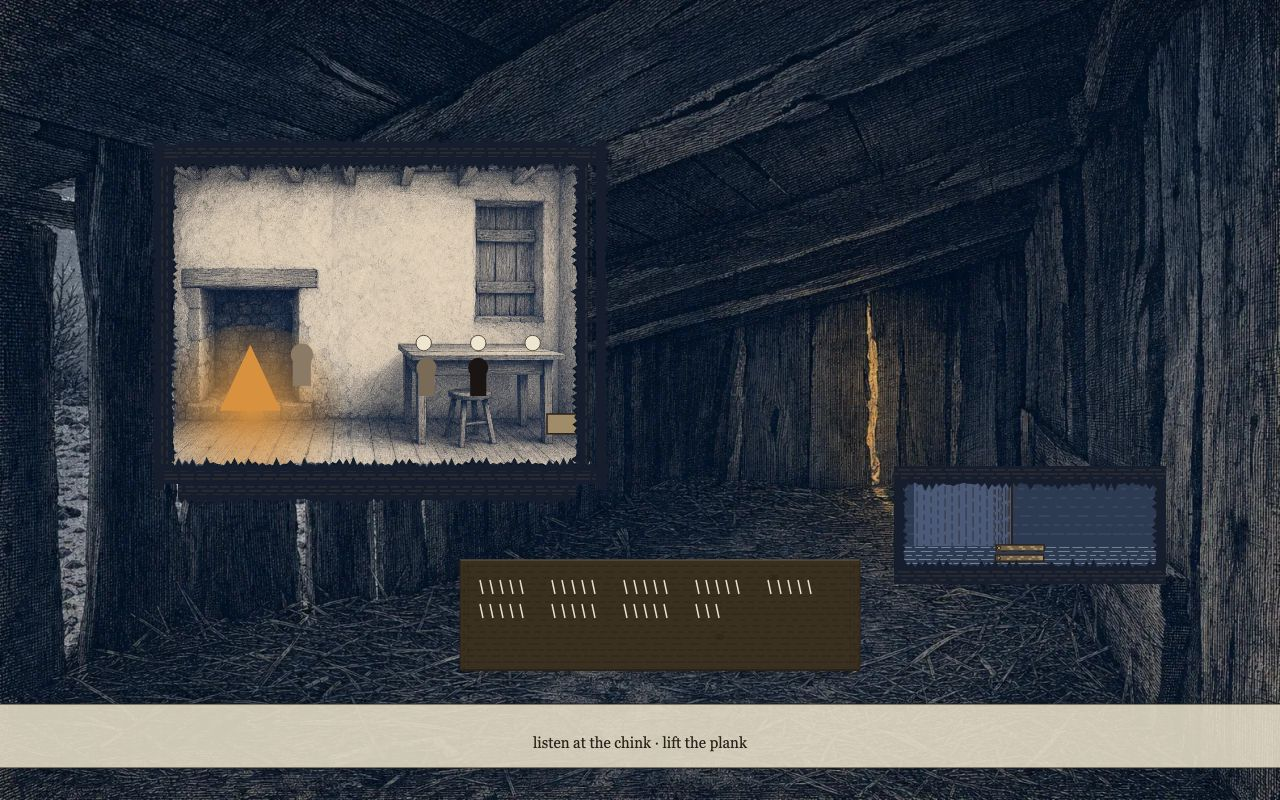
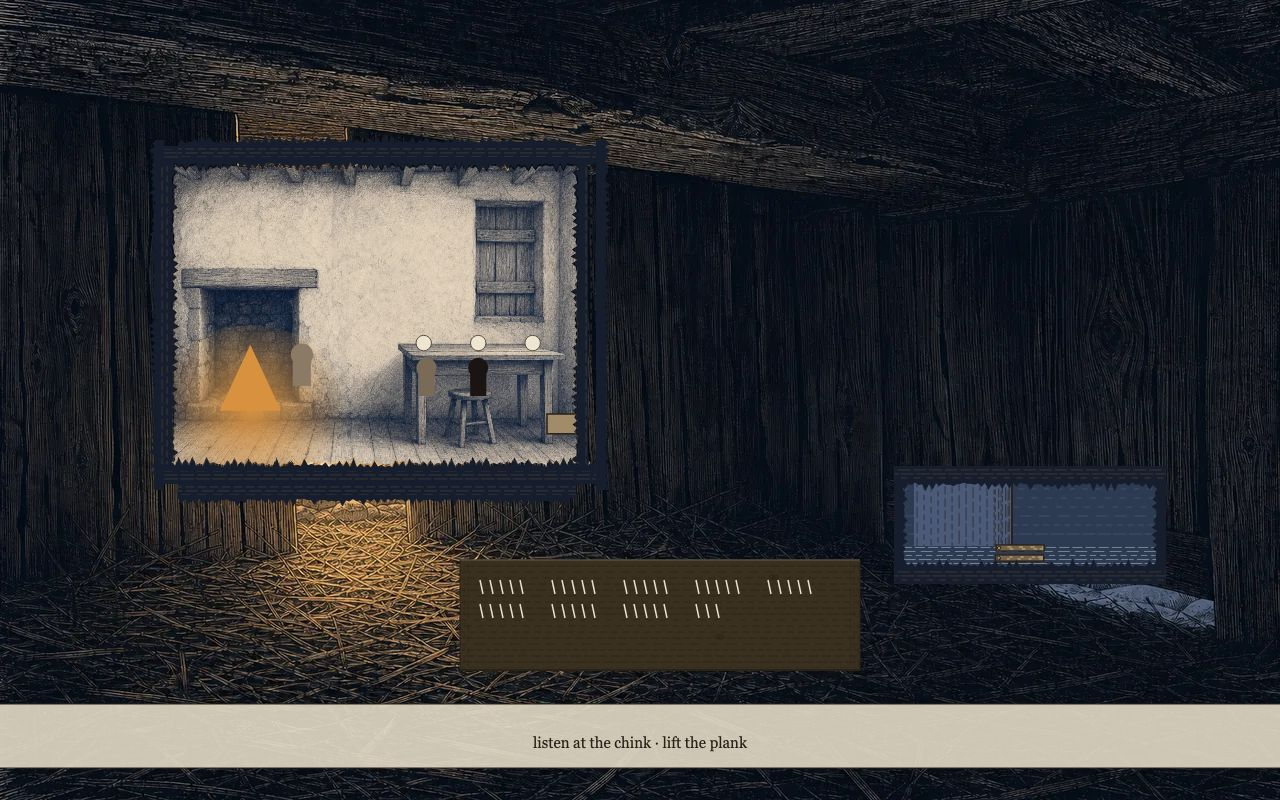
frankenstein: regenerate plate/hovel to §7.1, and fix the probes it invalidated
F12 — the shipped plate's one warm opening sat at x 868-886, centred 877: right
of centre, 1.4% of frame width. §7.1 calls the hovel interior the signature
frame and puts a ragged aperture left of centre at ~34% x 40%, warm, room
inside. The game drew its aperture per §7.1 at 160-590, so the frame carried two
warm chinks — the room's, and an unexplained crack on the right.

Regenerated via codex imagegen. Two variants; the reject fragmented the wall
into six or seven separate slivers where §7.1 asks for one aperture, and gave
the cold slot as a clean white rectangle. The shipped plate measures warm mass
x 230-580, centred 405, with 0.0% of warm pixels right of centre, and that mass
sits inside the Canvas aperture, so the room covers it and one chink remains in
frame. Its opening is edged the way §7.1 describes: long straight board edges
with splintered breaks across the grain.

That last part matters beyond this item — F13 said the Canvas sawtooth reads as
a pinked mount rather than prised boards, and deferred the reshape for want of a
target. The plate now supplies one.

The plate lights the straw, and that invalidated two pixel probes written
against a dark-straw plate, both keyed on "warm means content":

  - the aperture's bottom lane scanned up from the straw and took the first warm
    pixel as room content escaping the clip. With lit straw it latched onto the
    plate's own glow at y 500 in every column and reported a leak that does not
[…]

diff --git a/examples/frankenstein/qa/qa_browser.py b/examples/frankenstein/qa/qa_browser.py
@@ -589,11 +589,19 @@ APERTURE_PROBE_JS = """(() => {
   };
   const scan = (hits) => ({ n: hits.length, var: variance(hits),
                             min: Math.min(...hits), max: Math.max(...hits) });
-  // bottom edge: columns right of the hearth glow, scanning up from the straw
+  // Bottom edge: columns right of the hearth glow. Scan DOWN from inside the
+  // room and take the first pixel that stops reading as room — that is the
+  // board tooth, i.e. the mask's boundary. The earlier version scanned up from
+  // the straw and took the first warm pixel, which assumed the plate below the
+  // aperture was dark. Since plate/hovel was regenerated to §7.1 the hearth
+  // light legitimately spills onto that straw, so the upward scan latched onto
+  // the plate's own glow at y = 500 in every column and read it as the room
+  // leaking past the teeth. Measuring the boundary from inside is independent
+  // of whatever the plate does underneath it.
   const bot = [];
   for (let x = 360; x <= AX + AW - 24; x += 3)
-    for (let y = AY + AH + 20; y > AY + AH - 70; y--)
-      if (warm(px(x, y))) { bot.push(y); break; }
+    for (let y = AY + AH - 70; y <= AY + AH + 20; y++)
+      if (!warm(px(x, y))) { bot.push(y); break; }
   // left edge: rows above the hearth's dark mouth, scanning in from the boards
   const lef = [];
   for (let y = 204; y <= 258; y += 3)
@@ -604,19 +612,24 @@ APERTURE_PROBE_JS = """(() => {
   for (let y = 210; y <= 333; y += 3)
     for (let x = AX + AW + 20; x > AX + AW - 70; x--)
       if (warm(px(x, y))) { rig.push(x); break; }
-  // control: the tally plank's own top and left edges (460,560)-(860,670)
-  const pk = ctx.getImageData(440, 540, 440, 140).data;
-  const pkx = (x, y) => {
-    const i = ((y - 540) * 440 + (x - 440)) * 4;
-    return [pk[i], pk[i + 1], pk[i + 2]];
+  // Control: the prompt band's top edge at 0.88h = 704. It is opaque PAL.paper
+  // laid straight across the frame, so a working probe must score ~0 variance
+  // on it — that is what proves the variance figures above mean "torn" rather
+  // than "noisy probe". The control used to be the tally plank's edges, keyed
+  // on warm(), but the plank is #3a3020 and passes warm() itself; once
+  // plate/hovel was regenerated the straw around it is lit and warm too, so
+  // the scan measured straw texture instead of the plank. The band is keyed on
+  // luminance instead and does not depend on the plate at all.
+  const bd = ctx.getImageData(300, 680, 700, 60).data;
+  const bdl = (x, y) => {
+    const i = ((y - 680) * 700 + (x - 300)) * 4;
+    return 0.299 * bd[i] + 0.587 * bd[i + 1] + 0.114 * bd[i + 2];
   };
-  const pt = [], pl = [];
-  for (let x = 470; x < 850; x += 3)
-    for (let y = 545; y < 600; y++) if (warm(pkx(x, y))) { pt.push(y); break; }
-  for (let y = 570; y < 660; y += 3)
-    for (let x = 445; x < 510; x++) if (warm(pkx(x, y))) { pl.push(x); break; }
+  const bt = [];
+  for (let x = 300; x < 1000; x += 3)
+    for (let y = 682; y < 738; y++) if (bdl(x, y) > 180) { bt.push(y); break; }
   return { bottom: scan(bot), left: scan(lef), right: scan(rig),
-           plankTop: scan(pt), plankLeft: scan(pl) };
+           bandTop: scan(bt) };
 })()"""
 
 
@@ -640,11 +653,10 @@ def aperture_checks(page, out: dict) -> None:
          f"[campaign] aperture right edge is a torn line, not a rule "
          f"(boundary variance {r['var']} px^2 >= {APERTURE_FLOOR_SIDE}, "
          f"shallowest warm {r['max']} <= 578 over {r['n']} rows; a rectangle scores 0)")
-    pt, pl = ap["plankTop"], ap["plankLeft"]
-    need(pt["n"] >= 120 and pt["var"] <= APERTURE_CONTROL_CEIL
-         and pl["n"] >= 25 and pl["var"] <= APERTURE_CONTROL_CEIL,
-         f"[campaign] the tally plank's own edges still read straight "
-         f"(control: {pt['var']} / {pl['var']} px^2 <= {APERTURE_CONTROL_CEIL})")
+    bt = ap["bandTop"]
+    need(bt["n"] >= 200 and bt["var"] <= APERTURE_CONTROL_CEIL,
+         f"[campaign] the prompt band's straight edge still reads straight "
+         f"(control: {bt['var']} px^2 <= {APERTURE_CONTROL_CEIL} over {bt['n']} columns)")
     out["aperture_shot"] = shot(page, "campaign_hovel_aperture",
                                 clip={"x": 120, "y": 108, "width": 530, "height": 424})
 

diff --git a/examples/frankenstein/qa/QA_REPORT.md b/examples/frankenstein/qa/QA_REPORT.md
@@ -12,8 +12,8 @@
   failure card. Still open: two release gates (Caslon fonts, audio set), and `want` and `silence`
   remain unplayed (see *Findings*, *Release gate*, *Not verified*).
 - `blocker`: 0 (1 found in round 1, **fixed**, with a regression check)
-- `major`: 4 — 1 partly cleared (images done; fonts and audio outstanding), 2 **fixed**
-  (F6 mouse input, F7 the `seen` ending), 1 open (F12, the hovel plate's composition)
+- `major`: 4 — 1 partly cleared (images done; fonts and audio outstanding), 3 **fixed**
+  (F6 mouse input, F7 the `seen` ending, F12 the hovel plate's composition)
 - `minor`: 6 fixed, 4 open
 - Deliverable name: **completable vertical slice, both input schemes, plates in, two gates open**
 
@@ -70,8 +70,8 @@ outstanding item. The door scene runs on a real-time clock
 | F5 | `minor` | `product` | `qa/` did not exist: no harness, no evidence, no report. `GAME_DESIGN` §14 named the acceptance path but nothing executed it | **Fixed** — `qa/qa_browser.py` added, following the repo convention (evidence in-workspace at `qa/evidence/browser/`, JPEG, never `/tmp`) |
 | F6 | `major` | `build` | **Every mouse click was dead.** `src/main.js:66` declares `edges` with `action / drop / exit / journal / advance` and no `clicked`; line 104 does `const e = { ...edges }`, so `e.clicked` is permanently `undefined`, and line 106 clears `mouse.clicked` having never read it. Nine call sites depend on `input.clicked` — title buttons, click-to-move, exit-by-click, the knock, the door. All are unreachable. `mouse.down` is read as a *level* (lines 219 / 279 / 297), so held-mouse still drives the cold open and the context action, which is why round 1's "mouse-primary" pass went green: it exercised holds and silently fell through to Enter for everything else | **Fixed.** Three dead pieces, not one: (a) `consumeEdges` now reads `mouse.clicked` *before* clearing it, so one `mousedown` yields exactly one edge consumed by exactly one tick; (b) `scene.queuedAction` was declared, reset and read but **never assigned a value**, so `maybeQueuedAction` was a permanent no-op — a restored `clicked` alone would have walked the creature to a hotspot and left it standing there; (c) `yardClick` was defined at `main.js:167` and **never called**, its body carrying the no-op expression `engine.applyClick ? null : null;`. All three are wired, and the hotspot radii mirror `nearestActionable`'s per-object reaches exactly (DOOR 34, OUTHOUSE 40, WELL 30, DOOR_APRON 30, MILK_HOUSE 30, WOOD_EDGE 44, HOVEL_MOUTH 24). Verified by a **complete mouse-only campaign** to the `door` ending. The harness's silent `keyboard.press("Enter")` fallback — what let this hide in round 1 — is deleted |
 | F7 | `major` | `build` | **The `seen` ending crashes the renderer.** `src/main.js:497` calls `R.wedge(...)`; `src/render.js:40` defines `wedge` as a module-local function and never exports it (the export list has no `wedge`). Once the `seen` phase begins, every frame throws `R.wedge is not a function` — the frozen cone and the failure card never draw and the console fills. The sim keeps ticking, so a keypress still advances to the epilogue over a dead screen. One of the four designed endings (§12) is unshippable | **Fixed** — `wedge` is now exported; it was the only one of the fifteen symbols `renderSeen` touches that `render.js` withheld. Verified by a dedicated `seen` pass: seed 42, night 1, the plank lifted through the real input path and the creature left standing in the yard until Agatha's retiring patrol finds him at minute 1.38 — no state injection. The pass asserts the sighting is the designed one (`ending=seen`, `seenBy=agatha`, `seenCtx=night`, inside the retiring window, seer's cone still live in the freeze), then the 2 s hold, the SEEN card, and the advance to the epilogue. Console-clean is asserted **segment-scoped** — zero *new* errors through the phase — on top of the untouched run-wide gate, so a run that never enters `seen` cannot pass it by default. Frames: `26_seen_freeze.jpg` (both whitened wedges, the creature inside Agatha's, the shadow across the seer), `27_seen_card.jpg` |
-| F13 | `minor` | `art` | **The aperture is irregular but does not read as a chink in boards.** The rectangular clip is gone and the mask is now a `det()`-seeded sawtooth registered to the boards' own teeth, gated so a rectangle (variance 0) cannot pass. But the teeth are a uniform 7 px step on all four sides, so at game scale the aperture reads as a pinked or torn-paper mount, not §7.1's "ragged aperture — the chink in the boarded window". Prised boards give long, mostly straight edges broken at irregular points, not a constant-frequency fringe | **Open, deliberately deferred.** The machinery is sound and stays: `aperturePath` retraces the same tooth lines and salts as the four `plankBreak`/`plankEnd` calls, inset 2 px, so no room pixel escapes onto the boards and no sliver of plate shows between them — envelope bounds derived from the geometry (`by-2`, `lx+2`, `rx-2`), not tuned. Reshaping is held until **after** F12: regenerating `plate/hovel` to §7.1's composition changes where the aperture sits and what surrounds it, so cutting a new silhouette first would be thrown away. Carried to the signature-frame pass with F11 |
-| F12 | `major` | `art` | **The generated `plate/hovel` does not implement §7.1's composition, and the frame now carries two warm chinks.** §7.1 calls the hovel interior "the signature frame of this game" and puts a ragged aperture **left of centre**, "occupying about 34% of the frame's width and 40% of its height, warm, and inside it the whitewashed room". Measured on the shipped plate, its one warm opening sits at **x 868-886, y 308-502 — centred at x 877, right of centre, 1.4% of frame width and 24% of its height**: a light leak between boards, not an aperture onto a room. The game draws its own aperture at 160-590 (33.6% x 41.3%, left of centre) per §7.1, so the two do not register and the signature frame shows a warm rectangle left of centre *and* an unexplained warm crack right of centre. The plate's only large left-of-centre opening is cold and shows snow and trees, not the room | **Open.** Not fixable in the view layer: registering the aperture with the plate's crack would mean an 18 px window onto a room containing four figures. The plate itself has to be regenerated to §7.1's composition, filed as a queue item. Queue item 6 was written on the assumption that the plate's chink was in the right place; that assumption was wrong and the item's second clause is void. Blocks the signature-frame pass from passing honestly |
+| F13 | `minor` | `art` | **The aperture is irregular but does not read as a chink in boards.** The rectangular clip is gone and the mask is now a `det()`-seeded sawtooth registered to the boards' own teeth, gated so a rectangle (variance 0) cannot pass. But the teeth are a uniform 7 px step on all four sides, so at game scale the aperture reads as a pinked or torn-paper mount, not §7.1's "ragged aperture — the chink in the boarded window". Prised boards give long, mostly straight edges broken at irregular points, not a constant-frequency fringe | **Open, deliberately deferred.** The machinery is sound and stays: `aperturePath` retraces the same tooth lines and salts as the four `plankBreak`/`plankEnd` calls, inset 2 px, so no room pixel escapes onto the boards and no sliver of plate shows between them — envelope bounds derived from the geometry (`by-2`, `lx+2`, `rx-2`), not tuned. Reshaping is held until **after** F12: regenerating `plate/hovel` to §7.1's composition changes where the aperture sits and what surrounds it, so cutting a new silhouette first would be thrown away. Carried to the signature-frame pass with F11. **The regenerated plate now shows what the silhouette should be**, so the reshape has a concrete target rather than a prose description. It also left a small registration artifact: the plate's opening shows above the mask's top edge in a 52x11 px sliver (15 warm pixels at x 236-288, y 126-137), so the reshaped mask must cover the plate's opening completely |
+| F12 | `major` | `art` | **The generated `plate/hovel` does not implement §7.1's composition, and the frame now carries two warm chinks.** §7.1 calls the hovel interior "the signature frame of this game" and puts a ragged aperture **left of centre**, "occupying about 34% of the frame's width and 40% of its height, warm, and inside it the whitewashed room". Measured on the shipped plate, its one warm opening sits at **x 868-886, y 308-502 — centred at x 877, right of centre, 1.4% of frame width and 24% of its height**: a light leak between boards, not an aperture onto a room. The game draws its own aperture at 160-590 (33.6% x 41.3%, left of centre) per §7.1, so the two do not register and the signature frame shows a warm rectangle left of centre *and* an unexplained warm crack right of centre. The plate's only large left-of-centre opening is cold and shows snow and trees, not the room | **Fixed.** `plate/hovel` regenerated via codex imagegen against §7.1, two variants produced and one rejected: the reject fragmented the wall into six or seven slivers where §7.1 asks for one aperture. The shipped plate measures **warm mass x 230-580, centred 405 — left of centre, with 0.0% of warm pixels right of centre** (was: centred 877, right of centre), and that mass sits inside the Canvas aperture at 160-590, so the room drawn over it covers it and one chink remains in frame. Its opening is edged as §7.1 describes — long straight board edges with splintered breaks across the grain — which also supplies the reference silhouette F13 was missing. **Consequence for QA:** the plate lights the straw, and the F11/F13 pixel probes were written against a dark-straw plate, keyed on "warm means content". Two broke — the aperture's bottom lane latched onto the plate's glow at y 500 and read it as a leak, and the plank control could not separate plank from lit straw (`#3a3020` passes `warm()` itself). Both corrected, not tuned: the bottom lane now measures the boundary from *inside* the room, and the control moved to the prompt band's straight edge, which is keyed on luminance and independent of the plate (scores 0 px^2 over 234 columns). Building those gates before regenerating the plate was the wrong order |
 | F11 | `minor` | `art` | **Three objects were flat swatches on an engraved plate.** The cold slot, the tally plank body and the journal bundle were single `fillRect` fills with a 1.5 px stroke, sitting on top of the real `plate/hovel` woodcut like stickers. §7.1 asks the slot to be "a narrow cold slot where the loose plank sits, through which a strip of the yard is visible: the corner of the cottage and the pile of cut wood at the door"; §16.3 lists the pile courses, the tally plank and its scratches as Canvas 2D work | **Fixed, with a stated remainder.** A reusable `hatch` (density and broken lines, never a gradient), `plankBreak` and `plankEnd` for the boards' broken silhouette, and a deterministic index-hash `det()` for mark jitter — explicitly *not* the engine's seeded RNG, which would consume the sim's seed stream and desync replays. `drawPile` now takes a geometry argument and serves both the yard plan and the strip seen through the slot, so the pile courses cannot drift into two implementations. Gated at pixel level: each region must clear 40 unique colours and 150 luminance variance, with same-size bare-straw patches as controls that are themselves asserted, so a broken probe fails loudly. Measured slot 638/471, plank 145/1080, bundle 197/773 against a flat fill's ~3-6 colours and ~10 variance. **Remainder:** the slot's upper band between the cottage corner and the right end cap is still one dark tone with sparse marks and reads as a flat field at a glance; the plank's knots fall under the tally rows; the parcel is 50x40 px and reads more diagram than engraving. Carried to the signature-frame pass (queue 13), where "does it read" is the actual question |
 | F10 | `minor` | `art` | **The card shrink ladder collides with `ART_DIRECTION` §9's own numbers.** Three parts. (a) §9's table gives card body 22 px with a floor "it must never cross" of 13 px, but `layoutCard` clamps at `Math.max(11, ...)` — below spec. Latent today (the worst observed setting is 16 px) but the clamp is wrong. (b) The ladder largely cancels the text-size setting on the busiest cards: the 4-line epilogue with buttons lands at 17 px / 18 px / 20 px for `textScale` 1 / 1.25 / 1.5, so a reader asking for 50% larger type gets 18%. (c) §9 also fixes a measure of ≤ 62 characters and specifies "left-aligned, ragged right"; the layout gate checks pixels only, and cards are drawn centred. The centring predates this round | **Open** — the fit criterion for F8 is met and gated; these are the *typographic* rules around it, none of which the new gate covers. Filed rather than fixed so the round stayed on its stated scope |
 | F9 | `minor` | `product` | **A QA assertion could not hold at normal speed.** `[mouse-campaign] click-to-move actually moves the creature` (added in round 3, by me) demanded >40 px of travel on a leg only 45.5 px long, while `click_arrive` stops polling inside a 14 px arrival radius — so the guaranteed floor is 31.5 px and the bar sat above it. The creature moves `WALK_SPEED` = 290 px per *night-minute*, i.e. 290 px/s at `?fast=1` but 36 px/s at normal speed, and the 100 ms poll therefore overshoots the arrival ring by ~29 px accelerated against ~3.6 px at normal speed. The assertion was a coin-flip at `fast` (observed both 43.6 px pass and 33.4 px fail) and unpassable under `QA_SLOW`. It aborted the mouse campaign, so **the round-3 claim that timing evidence was valid covered the keyboard campaign only** | **Fixed** — the bar is now derived from the geometry rather than hand-picked: travel must be at least the leg length minus the shared `ARRIVE_R` constant (which `click_arrive` also uses, so the two cannot drift). Standing still still fails it |

diff --git a/examples/frankenstein/_progress.md b/examples/frankenstein/_progress.md
@@ -48,7 +48,8 @@
   covering the mouse campaign (F9 blocked it until now); signature frames not yet
   judged against `ART_DIRECTION` now that the plates are in; no clean-context onboarding
   judgement; no audio; no human playtest protocol yet
-- Assets: all 6 release-gated plates generated 2026-07-28 (`plate/paper|title|room|hovel|door|fire`),
+- Assets: `plate/hovel` regenerated 2026-07-28 to §7.1's composition (one warm chink, left of
+  centre; the earlier plate put it right of centre at 1.4% width — F12). All 6 release-gated plates generated 2026-07-28 (`plate/paper|title|room|hovel|door|fire`),
   sized to draw size and shipped as WebP — 17 MB PNG → 1.4 MB, total build 1.50 MB against a
   25 MB budget. They enter through `src/skin.js`; a key that fails to load still draws a grey box
   with its key name and the run continues. The 9 degradable keys remain on their named lesser
